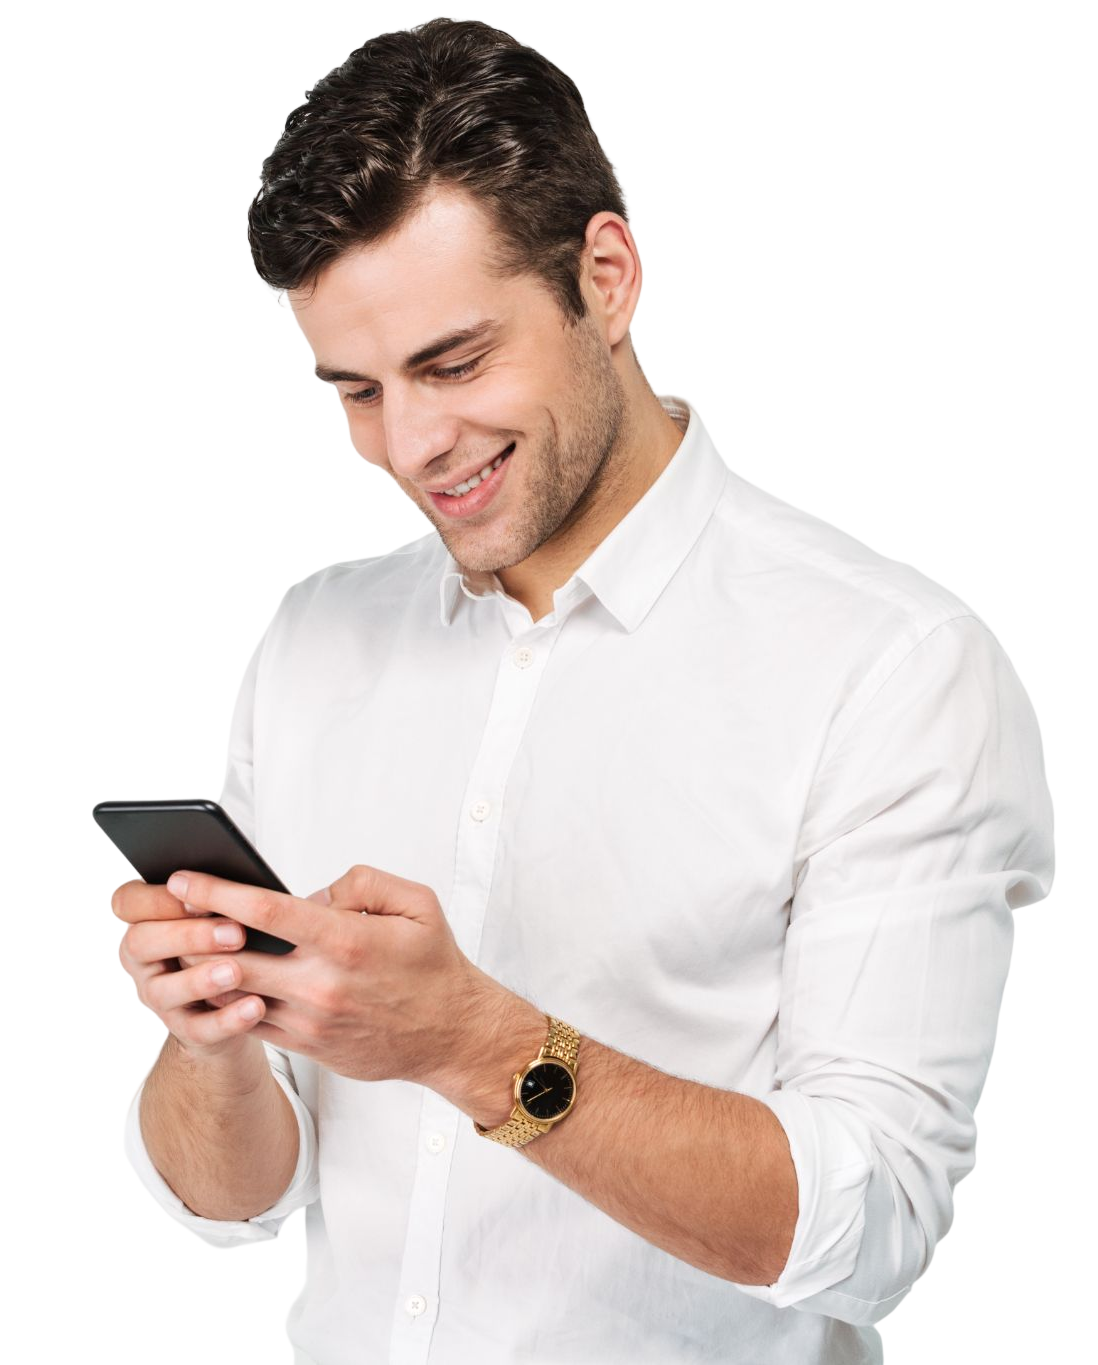
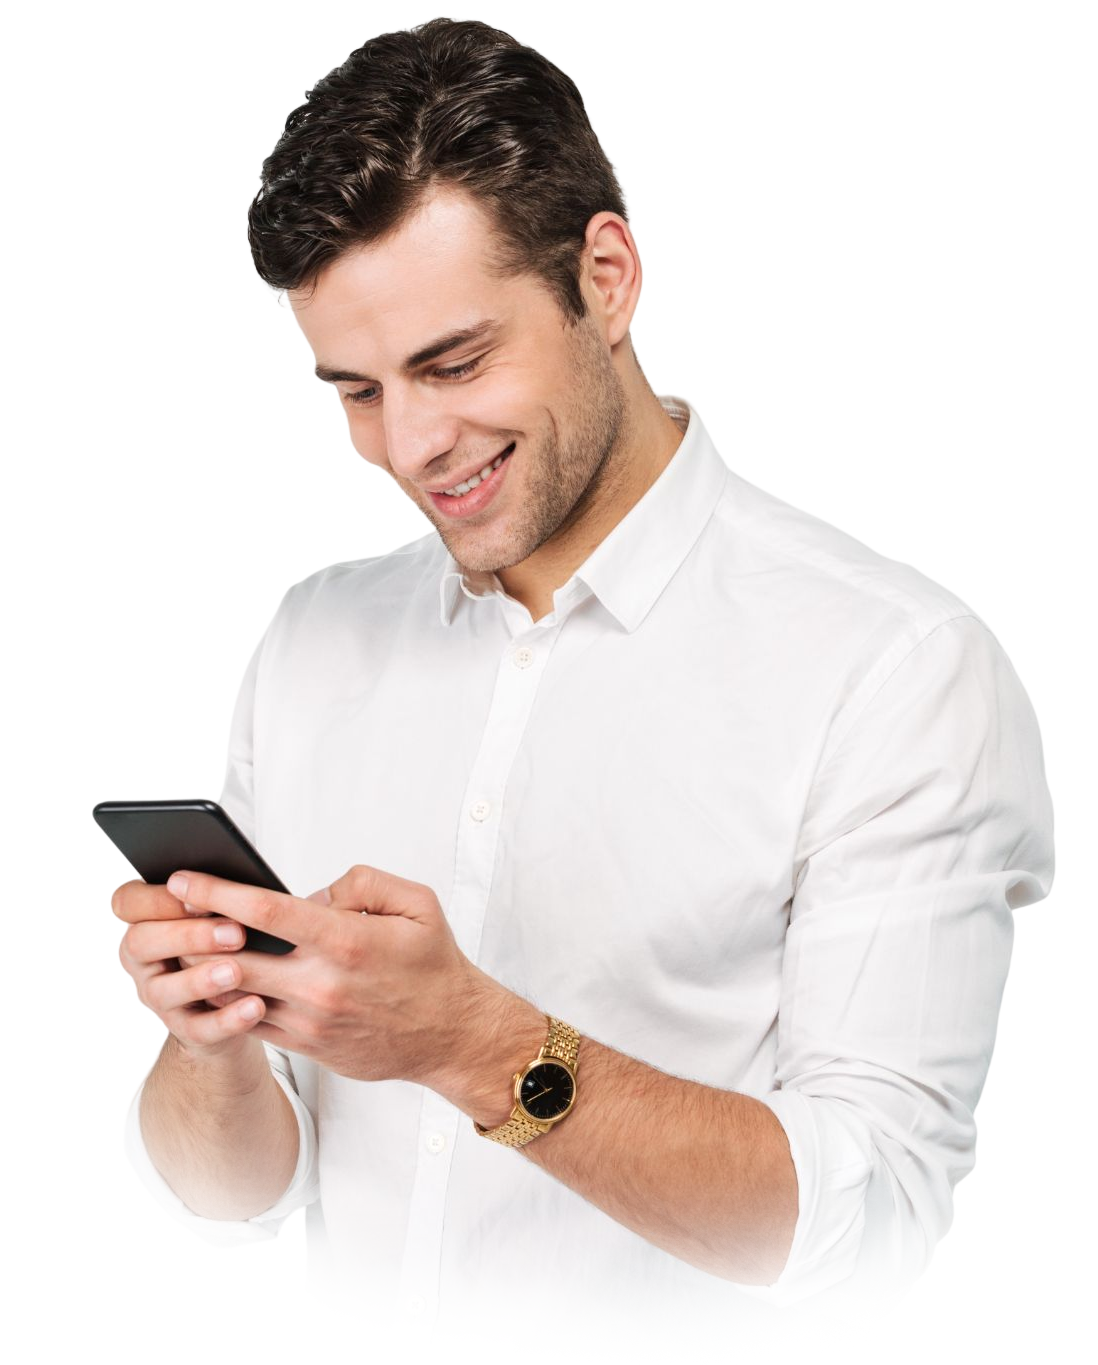
feat: Task CL/326-359 ajustadas

diff --git a/pages/perfil/index.tsx b/pages/perfil/index.tsx
@@ -215,7 +215,10 @@ const Perfil = () => {
               >
                 <Balance
                   type='CoinLivre'
-                  value={`CNLT ${dataUser?.balanceCL}`}
+                  value={`CNLT ${parseFloat(dataUser?.balanceCL
+                    .replace(',','.'))
+                    .toLocaleString('pt-BR', { minimumFractionDigits: 2})}`
+                  }
                 />
               </Column>
               <Column
@@ -227,7 +230,9 @@ const Perfil = () => {
               >
                 <Balance
                   type='R$'
-                  value={`R$ ${dataUser?.saldoReais}`}
+                  value={`R$ ${parseFloat(dataUser?.saldoReais
+                    .replace(',','.'))
+                    .toLocaleString('pt-BR', { minimumFractionDigits: 2})}`}
                 />
               </Column>
             </div>

diff --git a/components/molecules/Column/index.tsx b/components/molecules/Column/index.tsx
@@ -14,7 +14,7 @@ type Props = {
 
 const Column = ({ media, className, size, children, flex, margin, minWidth, maxWidth, justifyContent }: Props) => {
   return (
-    <div style={{maxWidth: maxWidth, margin: `${margin || '10px 0'}`, flex: `${flex}`, justifyContent: justifyContent, minWidth: `${minWidth}`}} className={`col-${media}-${size} ${className}`}>
+    <div style={{ maxWidth: maxWidth, margin: `${margin || '10px 0'}`, flex: `${flex}`, justifyContent: justifyContent, minWidth: `${minWidth}`}} className={`col-${media}-${size} ${className}`}>
       {children}
     </div>
   )

diff --git a/components/organisms/Header/index.tsx b/components/organisms/Header/index.tsx
@@ -109,7 +109,7 @@ const Header = ({ hideLinks }: Props) => {
               text={t.registerOrLogin}
               width='200px'
               label="Clique e cadastre-se"
-              margin='2%'
+              margin='3%'
               className="ms-3"
               hidden={false}
               disabled={false}
@@ -137,8 +137,6 @@ const Header = ({ hideLinks }: Props) => {
             }
           </div>
         )}
-
-
         <section className={Styles.sectionLanguage}>
           <div className={Styles.linksDiv}>
             {showLanguages && (

diff --git a/pages/quem-somos/index.tsx b/pages/quem-somos/index.tsx
@@ -62,6 +62,7 @@ const QuemSomos = () => {
             media='lg'
             size={7}
             className={`pt-5 ${Styles.descriptionCoinLivre}`}
+            maxWidth='500px'
           >
             <Separator
               color='#00ee8d'
@@ -70,7 +71,7 @@ const QuemSomos = () => {
               id='introducao-title'
               text={`${t.yourAccess} ${t.newEconomy}`}
               hidden={false}
-              width={14}
+              width={11}
               weight={500}
             />
             <Paragrah

diff --git a/components/molecules/UserOptions/styles.module.scss b/components/molecules/UserOptions/styles.module.scss
@@ -6,7 +6,15 @@
     justify-content: center;
     position: relative;
     cursor: pointer;
-    margin: 0 3%;
+    margin: 0 2%;
+
+    @media (min-width: 821px) and (max-width: 992px) {
+        margin: 0 9%;
+    }
+
+    @media (max-width: 820px) {
+        margin: 0 20%;
+    }
 
     &__phrase {
         color: $white;

diff --git a/pages/quem-somos/styles.module.scss b/pages/quem-somos/styles.module.scss
@@ -38,9 +38,6 @@
     height: 650px;
     filter: saturate(0);
     margin-top: 10%;
-    mask-image: linear-gradient(to top, black 100%);
-    -webkit-mask-image: linear-gradient(to top, transparent 1%, black 100%);
-
 
     @media(max-width: 992px) {
         width: 100%;

diff --git a/components/organisms/Header/styles.module.scss b/components/organisms/Header/styles.module.scss
@@ -86,7 +86,7 @@
 .linkLanguageStyle {
     text-decoration: none;
     color: $primary;
-    margin: 10px;
+    margin: 4px;
     font-size: 1.2rem;
 
     &:hover {
